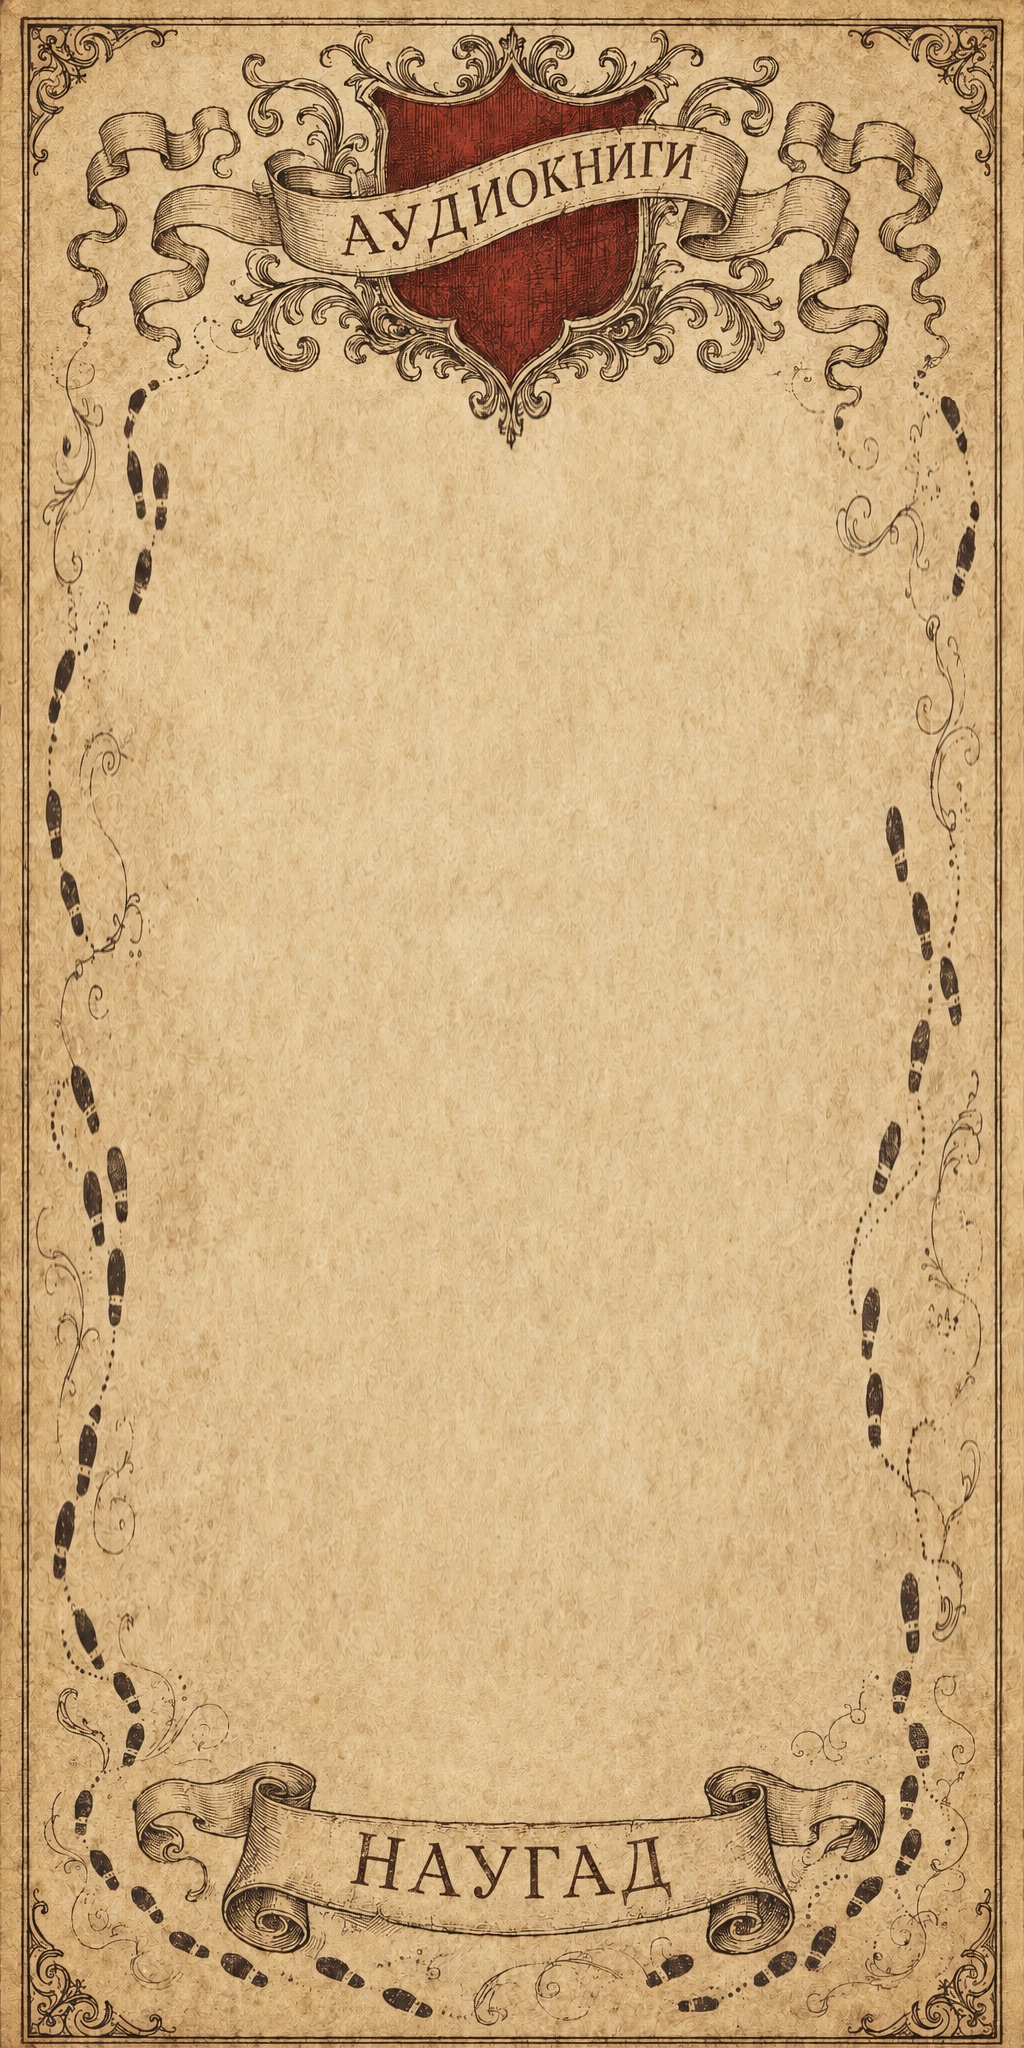
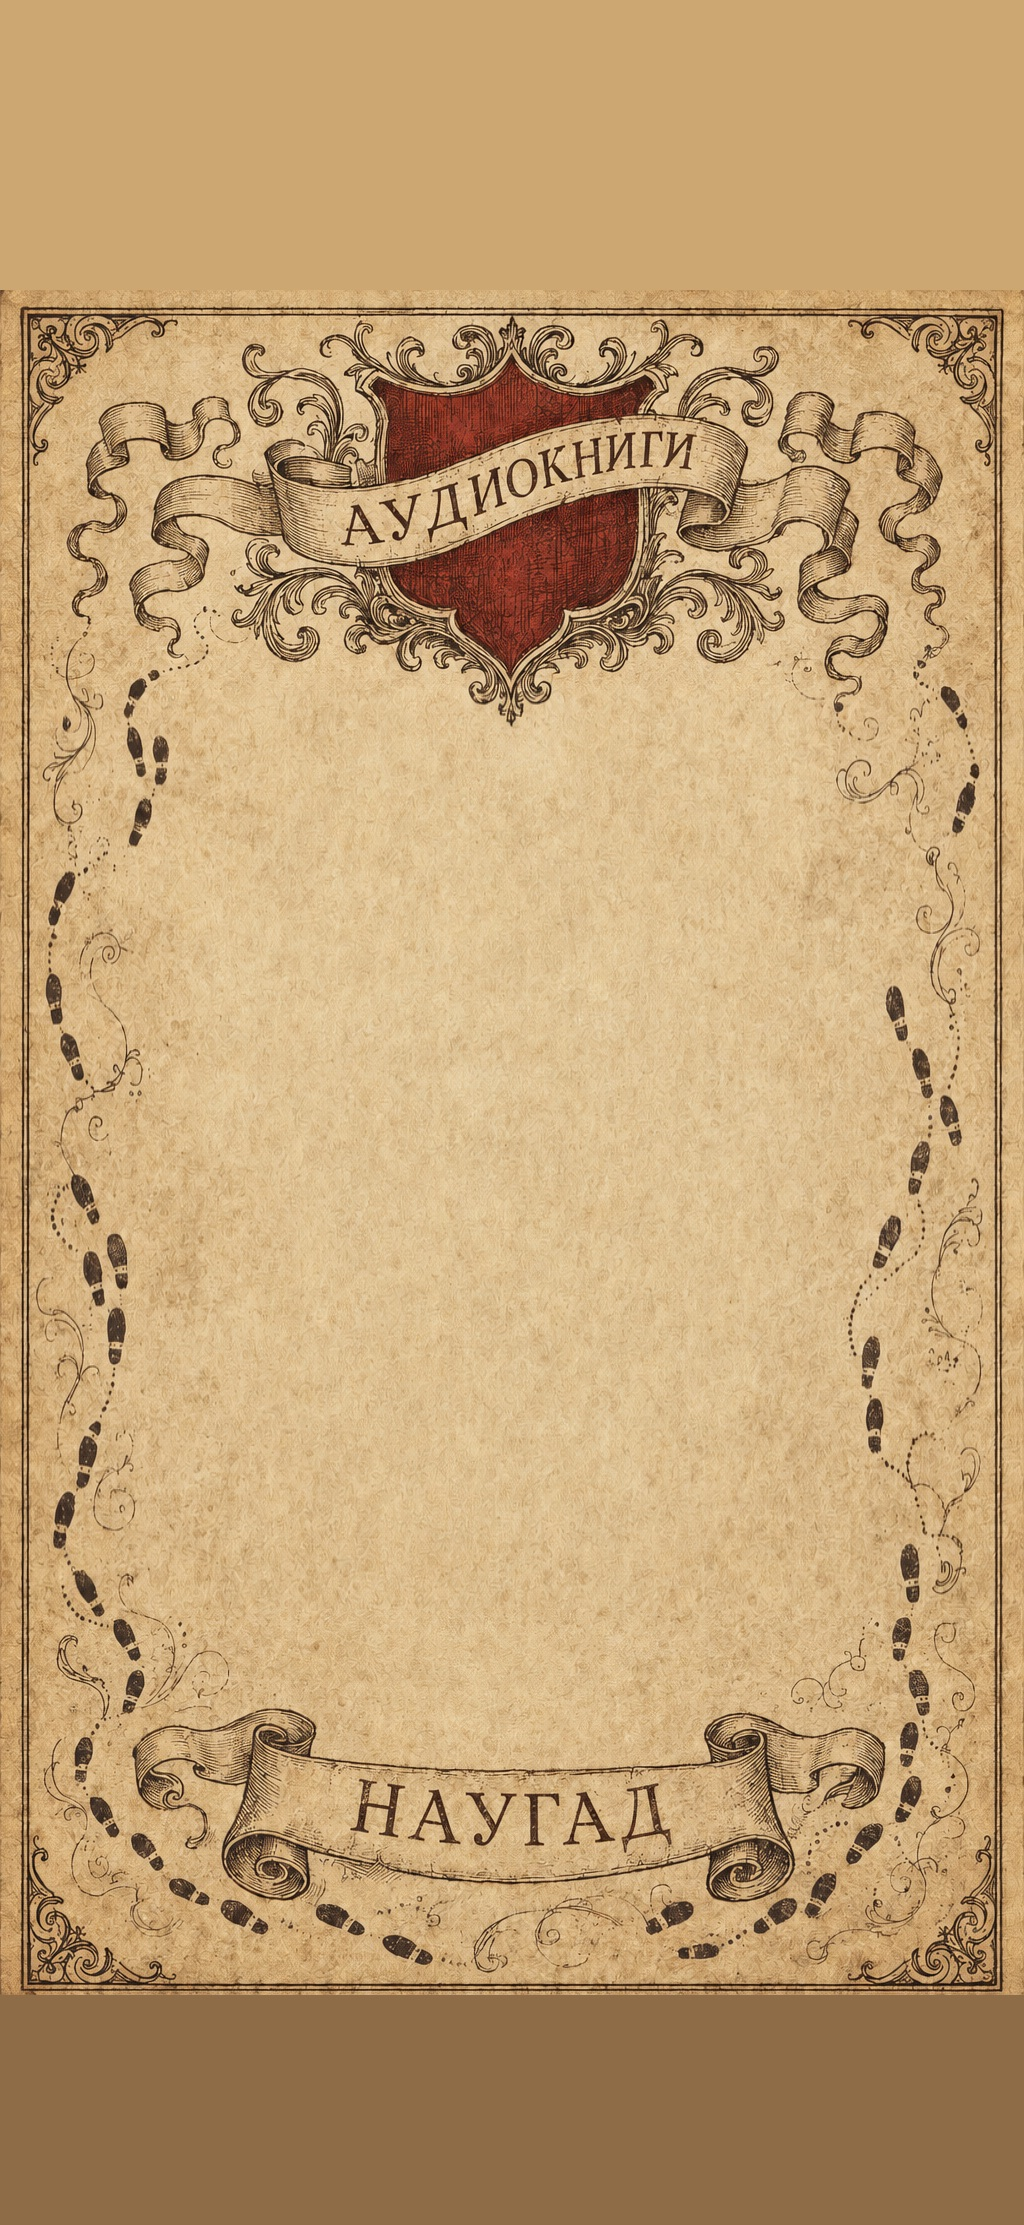
Cover the whole screen, bars included
The picture stopped at the edges of the visible strip between Safari's
address bar and toolbar, leaving a band of browser chrome above and below it.
Sizing on `dvh` was the cause: that unit is the strip. `vh` on iOS is the
large viewport — the screen as if the bars were retracted — so the page now
runs edge to edge and the bars float over it.

The sheet is rebuilt at 1024×2225, the proportions of the screen, with a
margin of plain parchment added above the crest and below the ribbon so that
what the bars cover is margin and not artwork. The margin is filled with the
average tone of the border rather than a repeat of one row, which smeared
into vertical streaks.

diff --git a/style.css b/style.css
@@ -30,10 +30,9 @@ body {
   color: var(--ink);
   font-family: var(--display);
   height: 100vh;
-  height: 100dvh;
   overflow: hidden;
   background-color: #d9c49a;
-  background-image: url("icons/map-bg.jpg?v=2");
+  background-image: url("icons/map-bg.jpg?v=3");
   background-size: 100% 100%;
   background-position: center;
   background-repeat: no-repeat;
@@ -48,16 +47,18 @@ body {
   white-space: nowrap;
 }
 
-/* icons/map-bg.jpg is 1024×2048: the crest ends at 19.5% of its height and
-   the ribbon starts at 81.2%, which is what these paddings clear. Those
-   numbers come from tools/stretch_middle.py, which built this taller sheet
-   from the original 2:3 artwork by stretching only the blank middle — a
-   phone screen is nearer 1:2, and stretching the whole picture to fit
-   stretched the lettering on the crest and ribbon with it. */
+/* icons/map-bg.jpg is 1024×2225 — the proportions of the screen — and covers
+   it end to end, running under the address bar and the toolbar. It was built
+   by tools/stretch_middle.py from the original 2:3 artwork: the crest and the
+   ribbon keep their drawn height, the blank middle takes the extra, and a
+   margin of plain parchment is added top and bottom so that what the browser
+   bars cover is margin rather than artwork.
+
+   On that sheet the crest ends at 31% and the ribbon spans 72.3–89.7%, which
+   is what these paddings clear. */
 .sheet {
   height: 100vh;
-  height: 100dvh;
-  padding: 23.5dvh 12% 20.5dvh 12%;
+  padding: 33vh 12% 29.5vh 12%;
   display: flex;
   flex-direction: column;
   max-width: 560px;
@@ -133,7 +134,7 @@ body {
 
 .book-list {
   list-style: none;
-  margin: 1dvh 0 0 0;
+  margin: 1vh 0 0 0;
   padding: 0;
   flex: 1 1 auto;
   min-height: 0;
@@ -296,8 +297,8 @@ body {
   left: 50%;
   transform: translateX(-50%);
   width: min(80vw, 448px);
-  bottom: 3.5dvh;
-  height: 15dvh;
+  bottom: 11.5vh;
+  height: 16vh;
   border: none;
   background: transparent;
   padding: 0;

diff --git a/index.html b/index.html
@@ -27,7 +27,7 @@
 <!-- ?v= is a cache buster: GitHub Pages serves assets with max-age=600, so
      without it a phone keeps running the previous app.js for ten minutes
      after a deploy. Bump it whenever app.js or style.css changes. -->
-<link rel="stylesheet" href="style.css?v=12">
+<link rel="stylesheet" href="style.css?v=13">
 </head>
 <body>
 
@@ -64,6 +64,6 @@
 
 <audio id="player" preload="metadata"></audio>
 
-<script src="app.js?v=12"></script>
+<script src="app.js?v=13"></script>
 </body>
 </html>

diff --git a/sw.js b/sw.js
@@ -3,7 +3,7 @@
 // file, so listening always streams fresh over the network and nothing is
 // stored on the phone.
 
-const CACHE_NAME = "ab-shell-v12"; // bump this string whenever shell files change
+const CACHE_NAME = "ab-shell-v13"; // bump this string whenever shell files change
 const SHELL_FILES = [
   "./",
   "./index.html",

diff --git a/tools/stretch_middle.py b/tools/stretch_middle.py
@@ -22,7 +22,11 @@ KEEP_TOP = 400      # crest and everything above it
 KEEP_BOTTOM = 1150  # ribbon and everything below it
 
 
-def main(src, dst, target_height):
+def main(src, dst, target_height, pad_top=0, pad_bottom=0):
+    """pad_top/pad_bottom extend the sheet past the drawn border by repeating
+    its outermost row. The page covers the whole screen, browser bars
+    included, so without that margin the crest and the ribbon would sit
+    underneath the address bar and the toolbar."""
     width, height, channels, px = read_png(src)
     if channels < 3:
         raise SystemExit("expected a colour image")
@@ -33,8 +37,9 @@ def main(src, dst, target_height):
         return [px[base + i * channels:base + i * channels + 3] for i in range(width)]
 
     middle_src = KEEP_BOTTOM - KEEP_TOP
-    middle_dst = target_height - KEEP_TOP - (height - KEEP_BOTTOM)
-    if middle_dst < middle_src:
+    middle_dst = (target_height - pad_top - pad_bottom
+                  - KEEP_TOP - (height - KEEP_BOTTOM))
+    if middle_dst < 1:
         raise SystemExit("target height is shorter than the artwork's fixed ends")
 
     out = bytearray(width * target_height * 4)
@@ -46,8 +51,23 @@ def main(src, dst, target_height):
             out[o] = r; out[o + 1] = g; out[o + 2] = b; out[o + 3] = 255
             o += 4
 
+    # Repeating a single row smears its horizontal variation into vertical
+    # streaks, so the margin is filled with that band's average tone instead.
+    def band_average(y0, y1):
+        r = g = b = n = 0
+        for y in range(y0, y1):
+            for px3 in row(y):
+                r += px3[0]; g += px3[1]; b += px3[2]; n += 1
+        return [(r // n, g // n, b // n)] * width
+
+    first = band_average(0, 12)
+    last = band_average(height - 12, height)
+    for y in range(pad_top):
+        put(y, first)
+
+    top = pad_top
     for y in range(KEEP_TOP):
-        put(y, row(y))
+        put(top + y, row(y))
 
     for i in range(middle_dst):
         # position in the source middle, blended between the two nearest rows
@@ -56,21 +76,30 @@ def main(src, dst, target_height):
         y1 = min(y0 + 1, KEEP_BOTTOM - 1)
         t = pos - y0
         a, b = row(y0), row(y1)
-        put(KEEP_TOP + i,
+        put(top + KEEP_TOP + i,
             [(int(a[x][0] + (b[x][0] - a[x][0]) * t),
               int(a[x][1] + (b[x][1] - a[x][1]) * t),
               int(a[x][2] + (b[x][2] - a[x][2]) * t)) for x in range(width)])
 
+    tail = top + KEEP_TOP + middle_dst
     for i, y in enumerate(range(KEEP_BOTTOM, height)):
-        put(KEEP_TOP + middle_dst + i, row(y))
+        put(tail + i, row(y))
+
+    for y in range(tail + (height - KEEP_BOTTOM), target_height):
+        put(y, last)
 
     write_rgba(dst, width, target_height, out)
 
+    ribbon_top = top + KEEP_TOP + middle_dst
     print("{} ({}x{}) -> {} ({}x{})".format(src, width, height, dst, width, target_height))
-    print("crest ends at {:.1f}%, ribbon starts at {:.1f}% of the new height".format(
-        KEEP_TOP / target_height * 100,
-        (KEEP_TOP + middle_dst) / target_height * 100))
+    print("crest ends at   {:.1f}%".format((top + KEEP_TOP) / target_height * 100))
+    print("ribbon spans    {:.1f}% – {:.1f}%".format(
+        ribbon_top / target_height * 100,
+        (tail + (height - KEEP_BOTTOM)) / target_height * 100))
 
 
 if __name__ == "__main__":
-    main(sys.argv[1], sys.argv[2], int(sys.argv[3]))
+    args = sys.argv[1:]
+    main(args[0], args[1], int(args[2]),
+         int(args[3]) if len(args) > 3 else 0,
+         int(args[4]) if len(args) > 4 else 0)
